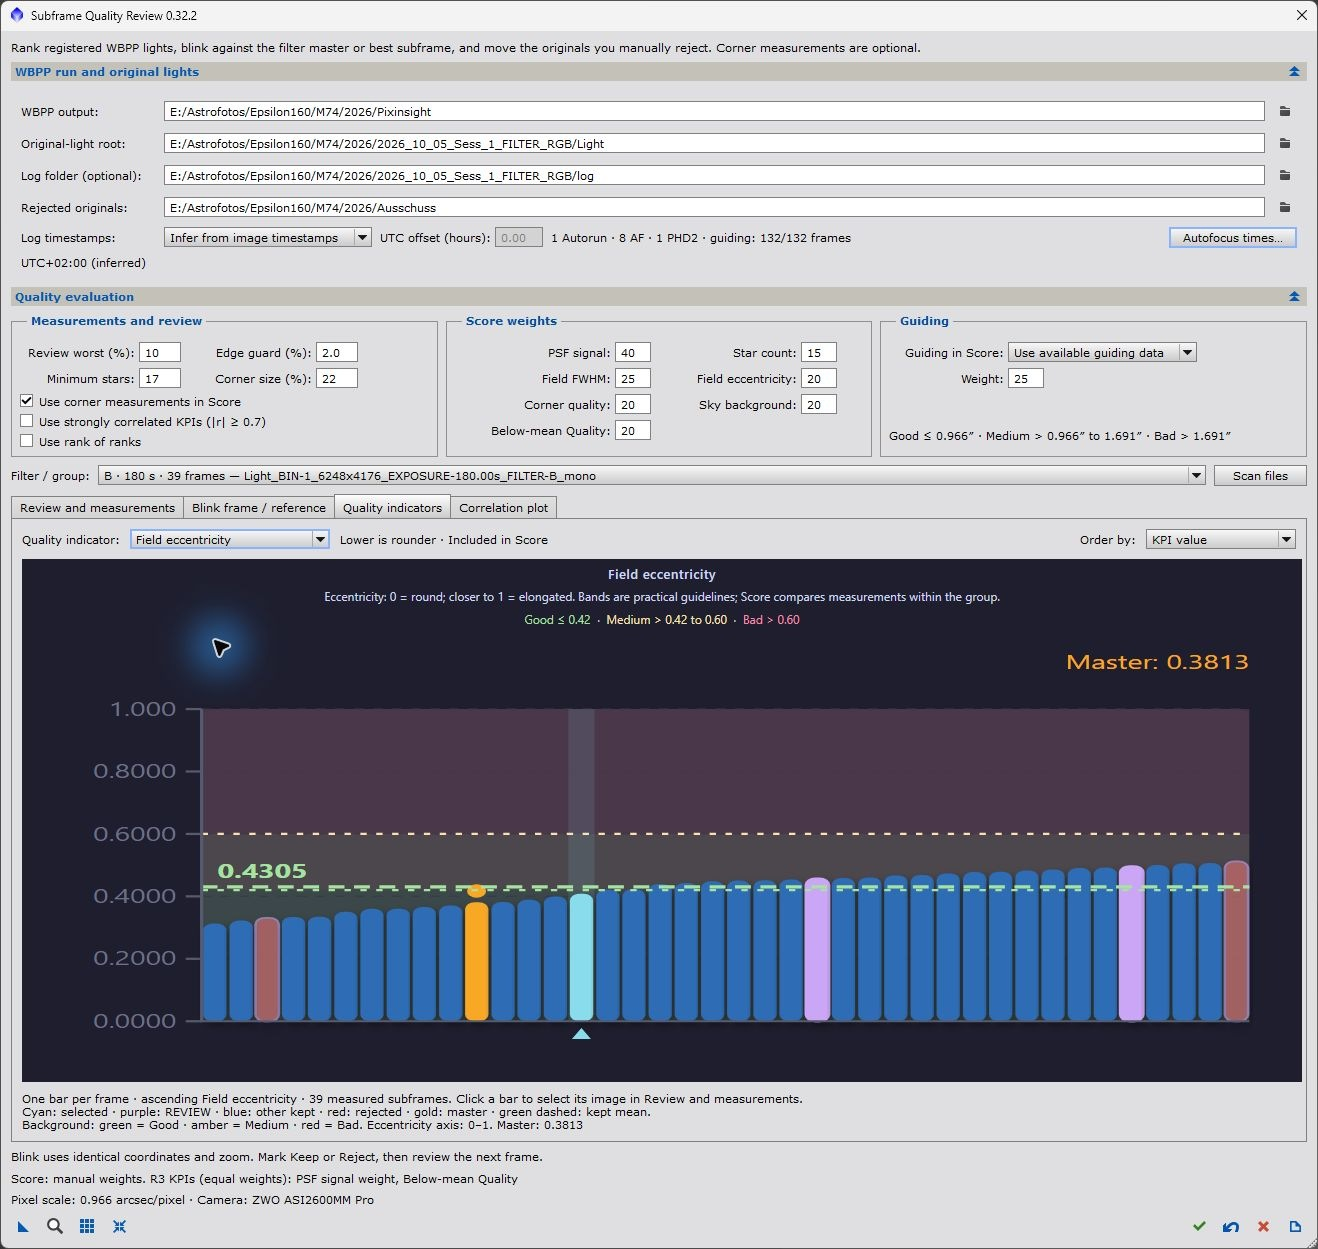
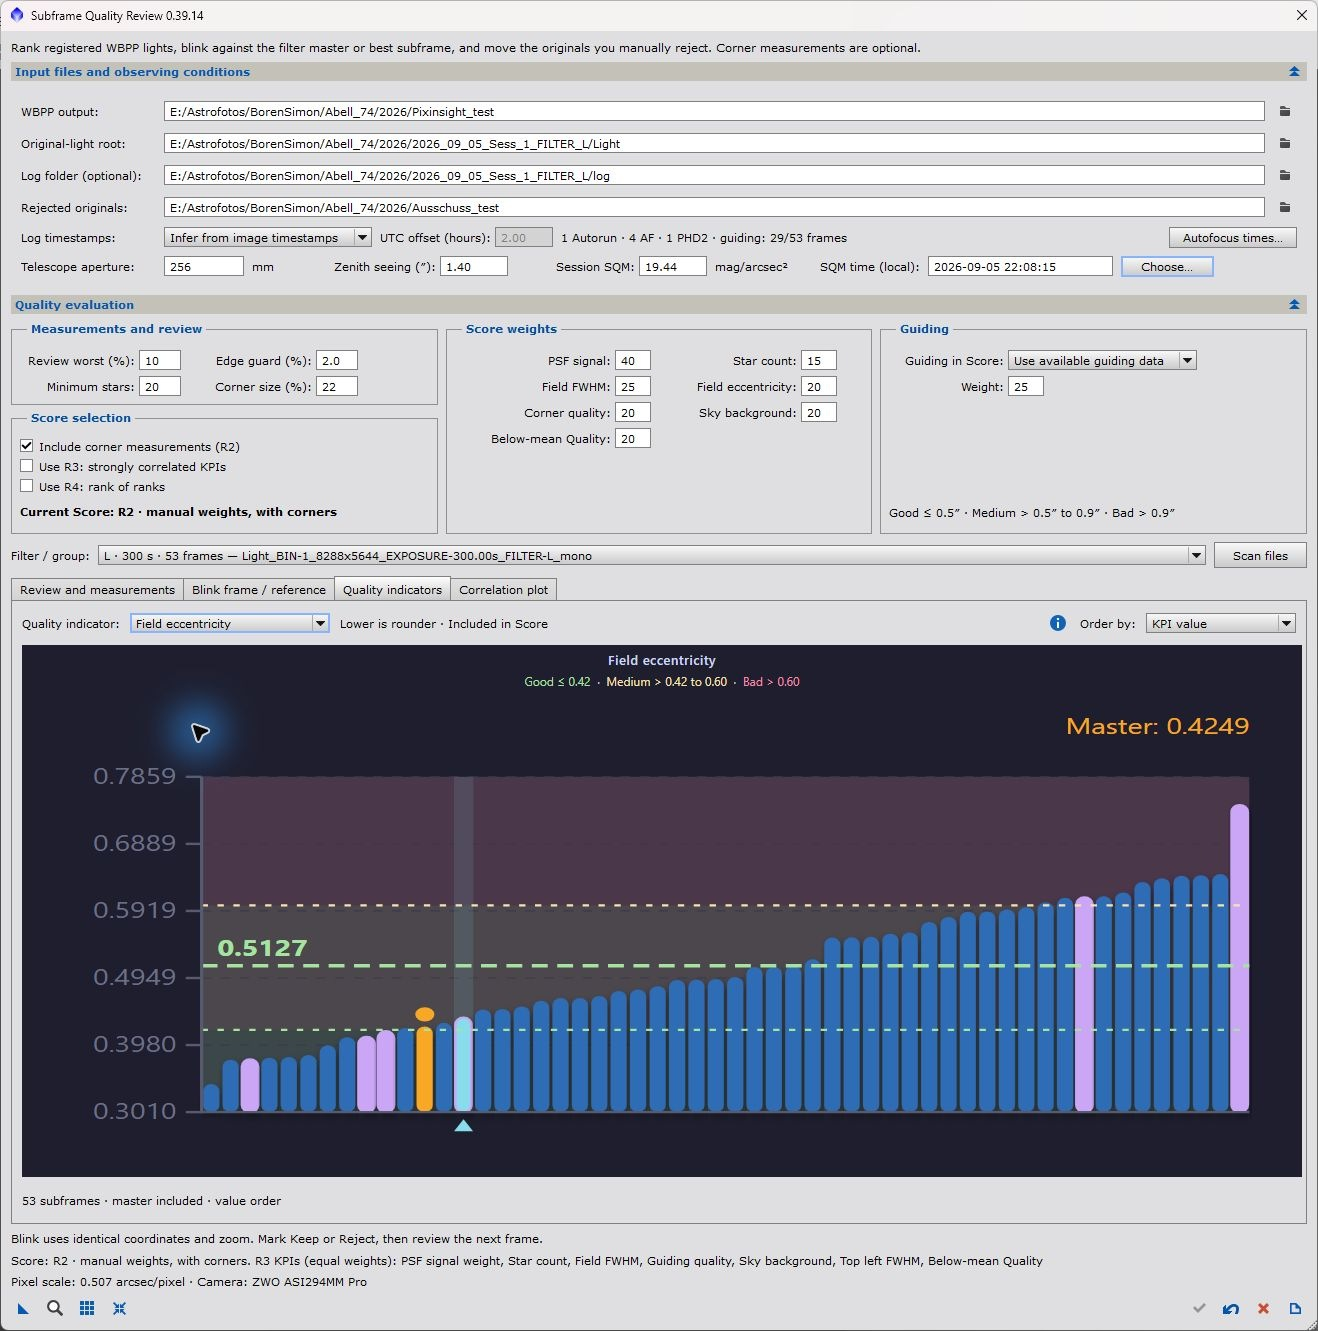
docs: update Subframe Quality Review README for v0.39.14
- Update version and last-update date
- Document SQM/Gaia sky calibration and FWHM grading
- Refresh UI screenshots and add FWHM plot and settings views

diff --git a/README.md b/README.md
@@ -60,7 +60,7 @@ The packaged updater release may lag behind the repository source. To use the V8
 | Match L and RGB sharpness | [LRGB Deconvolution Match](#lrgb-deconvolution-match) | 1.13.1 | Uses BlurXTerminator to match stellar halo profiles with estimated sharpening, independent FWHM checks, and blink previews. | 2026&#8209;10&#8209;19 |
 | Match intensity scales | [ROI Linear Fit](#roi-linear-fit) | 1.1.6 | Measures a fit in a selected region and applies it to the full target image. | 2026&#8209;10&#8209;04 |
 | Protect diffraction spikes | [Star Spike Protection Mask](#star-spike-protection-mask) | 1.7.2 | Builds a soft mask protecting bright stellar cores and their spikes. | 2026&#8209;10&#8209;10 |
-| Review WBPP subframes | [Subframe Quality Review](#subframe-quality-review) | 0.32.2 | Ranks registered lights with manual, correlation, or combined rankings; provides blink and quality plots, with journal-based move and undo for rejected originals. | 2026&#8209;10&#8209;24 |
+| Review WBPP subframes | [Subframe Quality Review](#subframe-quality-review) | 0.39.14 | Ranks registered lights with four rankings, blink and quality plots, SQM/Gaia sky calibration, FWHM grading, and journal-based move and undo for rejected originals. | 2026&#8209;10&#8209;25 |
 | Develop scripts | [TGScriptSkeleton](#tgscriptskeleton) | 1.6 | Provides a reusable dialog, image preview, and process-instance framework. | 2026&#8209;10&#8209;19 |
 
 Versions follow the declarations in the repository source.
@@ -294,18 +294,21 @@ Designed for a **stretched stars-only image** with roughly straight spikes on tw
 
 ### Subframe Quality Review
 
-**Version:** 0.32.2 · **Last update:** 2026-10-24
+**Version:** 0.39.14 · **Last update:** 2026-10-25
 
-Reviews **registered light frames from a completed WeightedBatchPreprocessing (WBPP) run** to help decide which original exposures to exclude before rerunning WBPP. It measures PSF signal weight, star count, FWHM, eccentricity, and sky background, with optional center/corner measurements and guiding-log data. **Score now ranges from 0 to 1; higher is better.** Scores describe relative quality within each filter/exposure group. **Below-mean Quality** reports the percentage of assessed, enabled indicators worse than their group mean.
+Reviews **registered light frames from a completed WeightedBatchPreprocessing (WBPP) run** to help decide which original exposures to exclude before rerunning WBPP. It measures PSF signal weight, star count, FWHM, eccentricity, and sky background, with optional center/corner measurements and guiding-log data. **Score ranges from 0 to 1; higher is better.** Scores describe relative quality within each filter/exposure group. **Below-mean Quality** reports the percentage of assessed, enabled indicators worse than their group mean.
 
-- **Four comparison rankings:** **R1** uses manual weights for field quality; **R2** adds corners; **R3** equally weights indicators strongly correlated with PSF signal weight (absolute Pearson correlation ≥ 0.7), retaining PSF signal weight as its anchor; **R4** averages the available normalized R1–R3 ranks. Rank **1 is worst**. Manual scoring is the default; **Use strongly correlated KPIs** or **Use rank of ranks** selects an alternative Score for the shortlist and best-subframe reference. Unavailable ranks are omitted from R4, as is R2 when corner scoring is off.
-- **Review and measurements:** shortlists the worst **10%** by default and flags missing required measurements. Reversible sorting, a REVIEW-only filter, explanatory tooltips, and collapsible review-information panels help inspect individual frames and their regional measurements.
-- **Corner and sky-background measurements:** the magnifier measures the field; the adjacent **Measure corners** grid button measures the center and four corners, reusing existing results. **Use corner measurements in Score** toggles their contribution without remeasuring. Sky background uses the lowest mean of the five previews when corner scoring is enabled, otherwise the whole-image mean. Lower background is treated as better; stars and extended objects can affect this estimate.
+- **Four comparison rankings:** **R1** uses manual weights for field quality; **R2** adds corners; **R3** equally weights indicators strongly correlated with PSF signal weight (absolute Pearson correlation ≥ 0.7), retaining PSF signal weight as its anchor; **R4** averages the available normalized R1–R3 ranks. Rank **1 is worst**. The **Score selection** panel identifies the current mode and offers **Include corner measurements (R2)**, **Use R3: strongly correlated KPIs**, and **Use R4: rank of ranks**. Unavailable ranks are omitted from R4, as is R2 when corner scoring is off.
+- **Review and measurements:** shortlists the worst **10%** by default and flags missing required measurements. Sorting, a REVIEW-only filter, tooltips, and collapsible information panels help inspect individual frames. The magnifier measures the field; the adjacent **Measure corners** grid button measures the center and four corners. Repeated measurement reuses unchanged results and sky calibration; previews load when needed.
 - **Blink frame / reference:** compare with the best scoring subframe or matching linear filter master, rotate through subframes in the visible Review order, or cycle through regions. Playback intervals of **0.10–10 seconds**, preserved zoom/pan, display stretching, and brightness alignment aid comparison without changing source pixels.
-- **Quality and correlation plots:** inspect one bar per frame by value or acquisition time, with master comparison, a mean for non-rejected frames, and optional autofocus-start markers. Eccentricity plots add Good/Medium/Bad inspection bands at **0.42** and **0.60**; these do not change scoring. The scatter plot compares two selectable indicators and explains their Pearson correlation.
-- **Guiding and logs:** an optional folder supplies Autorun autofocus events and PHD2 samples matched to each exposure. Minimum, average, and maximum guiding errors appear in arcseconds, with bands based on the imaging pixel scale. **Use available guiding data** is now the default; **Require guiding data** and **Ignore guiding KPI** remain available.
+- **Quality and correlation plots:** inspect one bar per frame by value or acquisition time, with master comparison, a mean for non-rejected frames, and optional autofocus-start markers. Blue information buttons explain the indicators, plot legend, and calibration. Eccentricity bands use **0.42** and **0.60**; the field-eccentricity axis adapts to the data, while regional plots retain a 0–1 axis. The scatter plot compares two selectable indicators and explains their Pearson correlation.
+- **FWHM grading:** enter telescope aperture and optional **Zenith seeing** in **Input files and observing conditions**, then open the settings icon on a field, center, or corner FWHM plot. Good/Medium/Bad bands account for aperture, image scale, target altitude, wavelength, and optional optical blur. With a seeing estimate, the default Good/Medium limits are **115%/135%** of expected FWHM; otherwise fixed seeing limits are used. The dialog shows the resulting limits in pixels.
+- **Sky background and SQM:** background uses the lowest mean of the center and four corner previews when corner scoring is enabled, otherwise the whole-image mean; RGB uses the **green channel**. Enter **Session SQM** and its local date/time to anchor relative sky-brightness estimates to the eligible exposure nearest that time. A pink dashed line marks the SQM reference, and an approximate Bortle class determines the quality shading. The log-derived time preset can be corrected directly or with **Choose**. Without SQM, select a Bortle class to calibrate with local Gaia photometry, or choose **—** to disable calibration and shading. Stars, nebulosity, gradients, and transparency affect these estimates; Bortle ranges are approximate.
+- **Guiding and logs:** an optional folder supplies Autorun autofocus events and PHD2 samples matched to each exposure. Minimum, average, and maximum guiding errors appear in arcseconds, with bands based on the imaging pixel scale. **Use available guiding data** is the default; **Require guiding data** and **Ignore guiding KPI** remain available.
 
-**REVIEW is a suggestion, not a rejection decision.** Mark unwanted originals manually, then use the green checkmark to inspect and confirm the move plan. Only uniquely verified original lights are moved, preserving relative subdirectories and recording a move journal. The **Undo** arrow can restore eligible files from that journal, even after reopening the script, without overwriting existing files. Refresh WBPP's inputs before rerunning it. Measurements and pending decisions last only while the dialog stays open; process instances save settings, not the measured session.
+**FWHM, eccentricity, and sky-brightness bands are visual inspection guides; their grading settings do not change Score, REVIEW, or rejection decisions.** FWHM grading requires a configured aperture and valid image scale. Sky calibration supports luminance, green, V, and RGB green-channel data in compatible acquisition groups. The Gaia method additionally requires sky coordinates and a configured local Gaia DR3/SP, DR3, or EDR3 catalog. Supplying SQM uses the reading directly; a missing or ambiguous reading time leaves calibration unavailable rather than falling back to Gaia.
+
+**REVIEW is a suggestion, not a rejection decision.** Mark unwanted originals manually, then use the green checkmark to inspect and confirm the move plan. Only uniquely verified original lights are moved, preserving relative subdirectories and recording a move journal. The **Undo** arrow can restore eligible files from that journal, even after reopening the script, without overwriting existing files; scan the files and configure the rejected-originals destination first. Refresh WBPP's inputs before rerunning it. Measurements, calibration, and pending decisions last only while the dialog stays open; process instances save settings, not the measured session.
 
 Requires **PixInsight 1.9.5+ with V8**. Supports XISF/FITS monochrome and registered, debayered OSC lights from one telescope setup. Select the WBPP output directory and a separate original-light root. Master comparisons require a matching **linear, uncropped, non-drizzled integration** with the same dimensions as the registered lights. [Source](TGScripts_repository/src/scripts/TGScripts/SubframeQualityReview.js) · [Guide](TGScripts_repository/doc/scripts/SubframeQualityReview/SubframeQualityReview.html)
 
@@ -314,31 +317,39 @@ Requires **PixInsight 1.9.5+ with V8**. Supports XISF/FITS monochrome and regist
 
 **Review and measurements**
 
-![Subframe Quality Review 0.32.2 reviewing 39 blue-filter M74 frames, with R1–R4 rankings, scoring options, and selected-image measurements](TGScripts_repository/images/SubframeQualityReview_main_screen.jpg)
+![Subframe Quality Review 0.39.14 reviewing 53 luminance frames of Abell 74, with observing conditions, R1–R4 rankings, and selected-image measurements](TGScripts_repository/images/SubframeQualityReview_main_screen.jpg)
 
 **Blink frame / reference**
 
-![Subframe Quality Review 0.32.2 M74 blink preview with best-subframe reference, region controls, adjustable playback interval, and display stretching](TGScripts_repository/images/SubframeQualityReview_blink_preview.jpg)
+![Subframe Quality Review 0.39.14 Abell 74 blink preview with best-subframe reference, region controls, adjustable playback interval, and display stretching](TGScripts_repository/images/SubframeQualityReview_blink_preview.jpg)
 
 **Quality indicators — Score, higher is better**
 
-![Subframe Quality Review 0.32.2 Score plot in ascending value order, with review candidates, rejected frames, kept-frame mean, and master comparison](TGScripts_repository/images/SubframeQualityReview_quality_indicators.jpg)
+![Subframe Quality Review 0.39.14 Score plot in ascending value order, with review candidates, selected frame, mean, and master comparison](TGScripts_repository/images/SubframeQualityReview_quality_indicators.jpg)
 
-**Sky background**
+**Sky background — SQM reference and Bortle shading**
 
-![Subframe Quality Review 0.32.2 sky-background plot using the lowest mean of the center and four corner previews](TGScripts_repository/images/SubframeQualityReview_sky_background.jpg)
+![Subframe Quality Review 0.39.14 sky-background plot with the session SQM 19.44 reference line, Bortle 6 quality shading, mean, and master comparison](TGScripts_repository/images/SubframeQualityReview_sky_background.jpg)
+
+**Field FWHM — quality bands**
+
+![Subframe Quality Review 0.39.14 field-FWHM plot with Good, Medium, and Bad bands derived from the telescope and observing conditions](TGScripts_repository/images/SubframeQualityReview_fwhm_indicators.jpg)
+
+**FWHM grading settings**
+
+![Subframe Quality Review FWHM grading dialog showing aperture, zenith seeing, image scale, target altitude, wavelength, relative limits, and calculated limits in pixels](TGScripts_repository/images/SubframeQualityReview_fwhm_grading.jpg)
 
 **Field eccentricity**
 
-![Subframe Quality Review 0.32.2 field-eccentricity plot with a zero-to-one axis and Good, Medium, and Bad bands at 0.42 and 0.60](TGScripts_repository/images/SubframeQualityReview_eccentricity.jpg)
+![Subframe Quality Review 0.39.14 field-eccentricity plot with an adaptive vertical axis and Good, Medium, and Bad bands at 0.42 and 0.60](TGScripts_repository/images/SubframeQualityReview_eccentricity.jpg)
 
 **Guiding indicators — average error**
 
-![Subframe Quality Review 0.32.2 guide-average plot in arcseconds with quality bands based on the imaging pixel scale](TGScripts_repository/images/SubframeQualityReview_guiding_indicators.jpg)
+![Subframe Quality Review 0.39.14 guide-average plot in arcseconds with quality bands and guiding data available for 29 of 53 frames](TGScripts_repository/images/SubframeQualityReview_guiding_indicators.jpg)
 
 **Correlation plot**
 
-![Subframe Quality Review 0.32.2 scatter plot comparing field FWHM with PSF signal weight, showing Pearson correlation and selectable subframes](TGScripts_repository/images/SubframeQualityReview_correlation_plot.jpg)
+![Subframe Quality Review 0.39.14 scatter plot comparing field FWHM with PSF signal weight, showing Pearson correlation and selectable subframes](TGScripts_repository/images/SubframeQualityReview_correlation_plot.jpg)
 
 </details>
 
